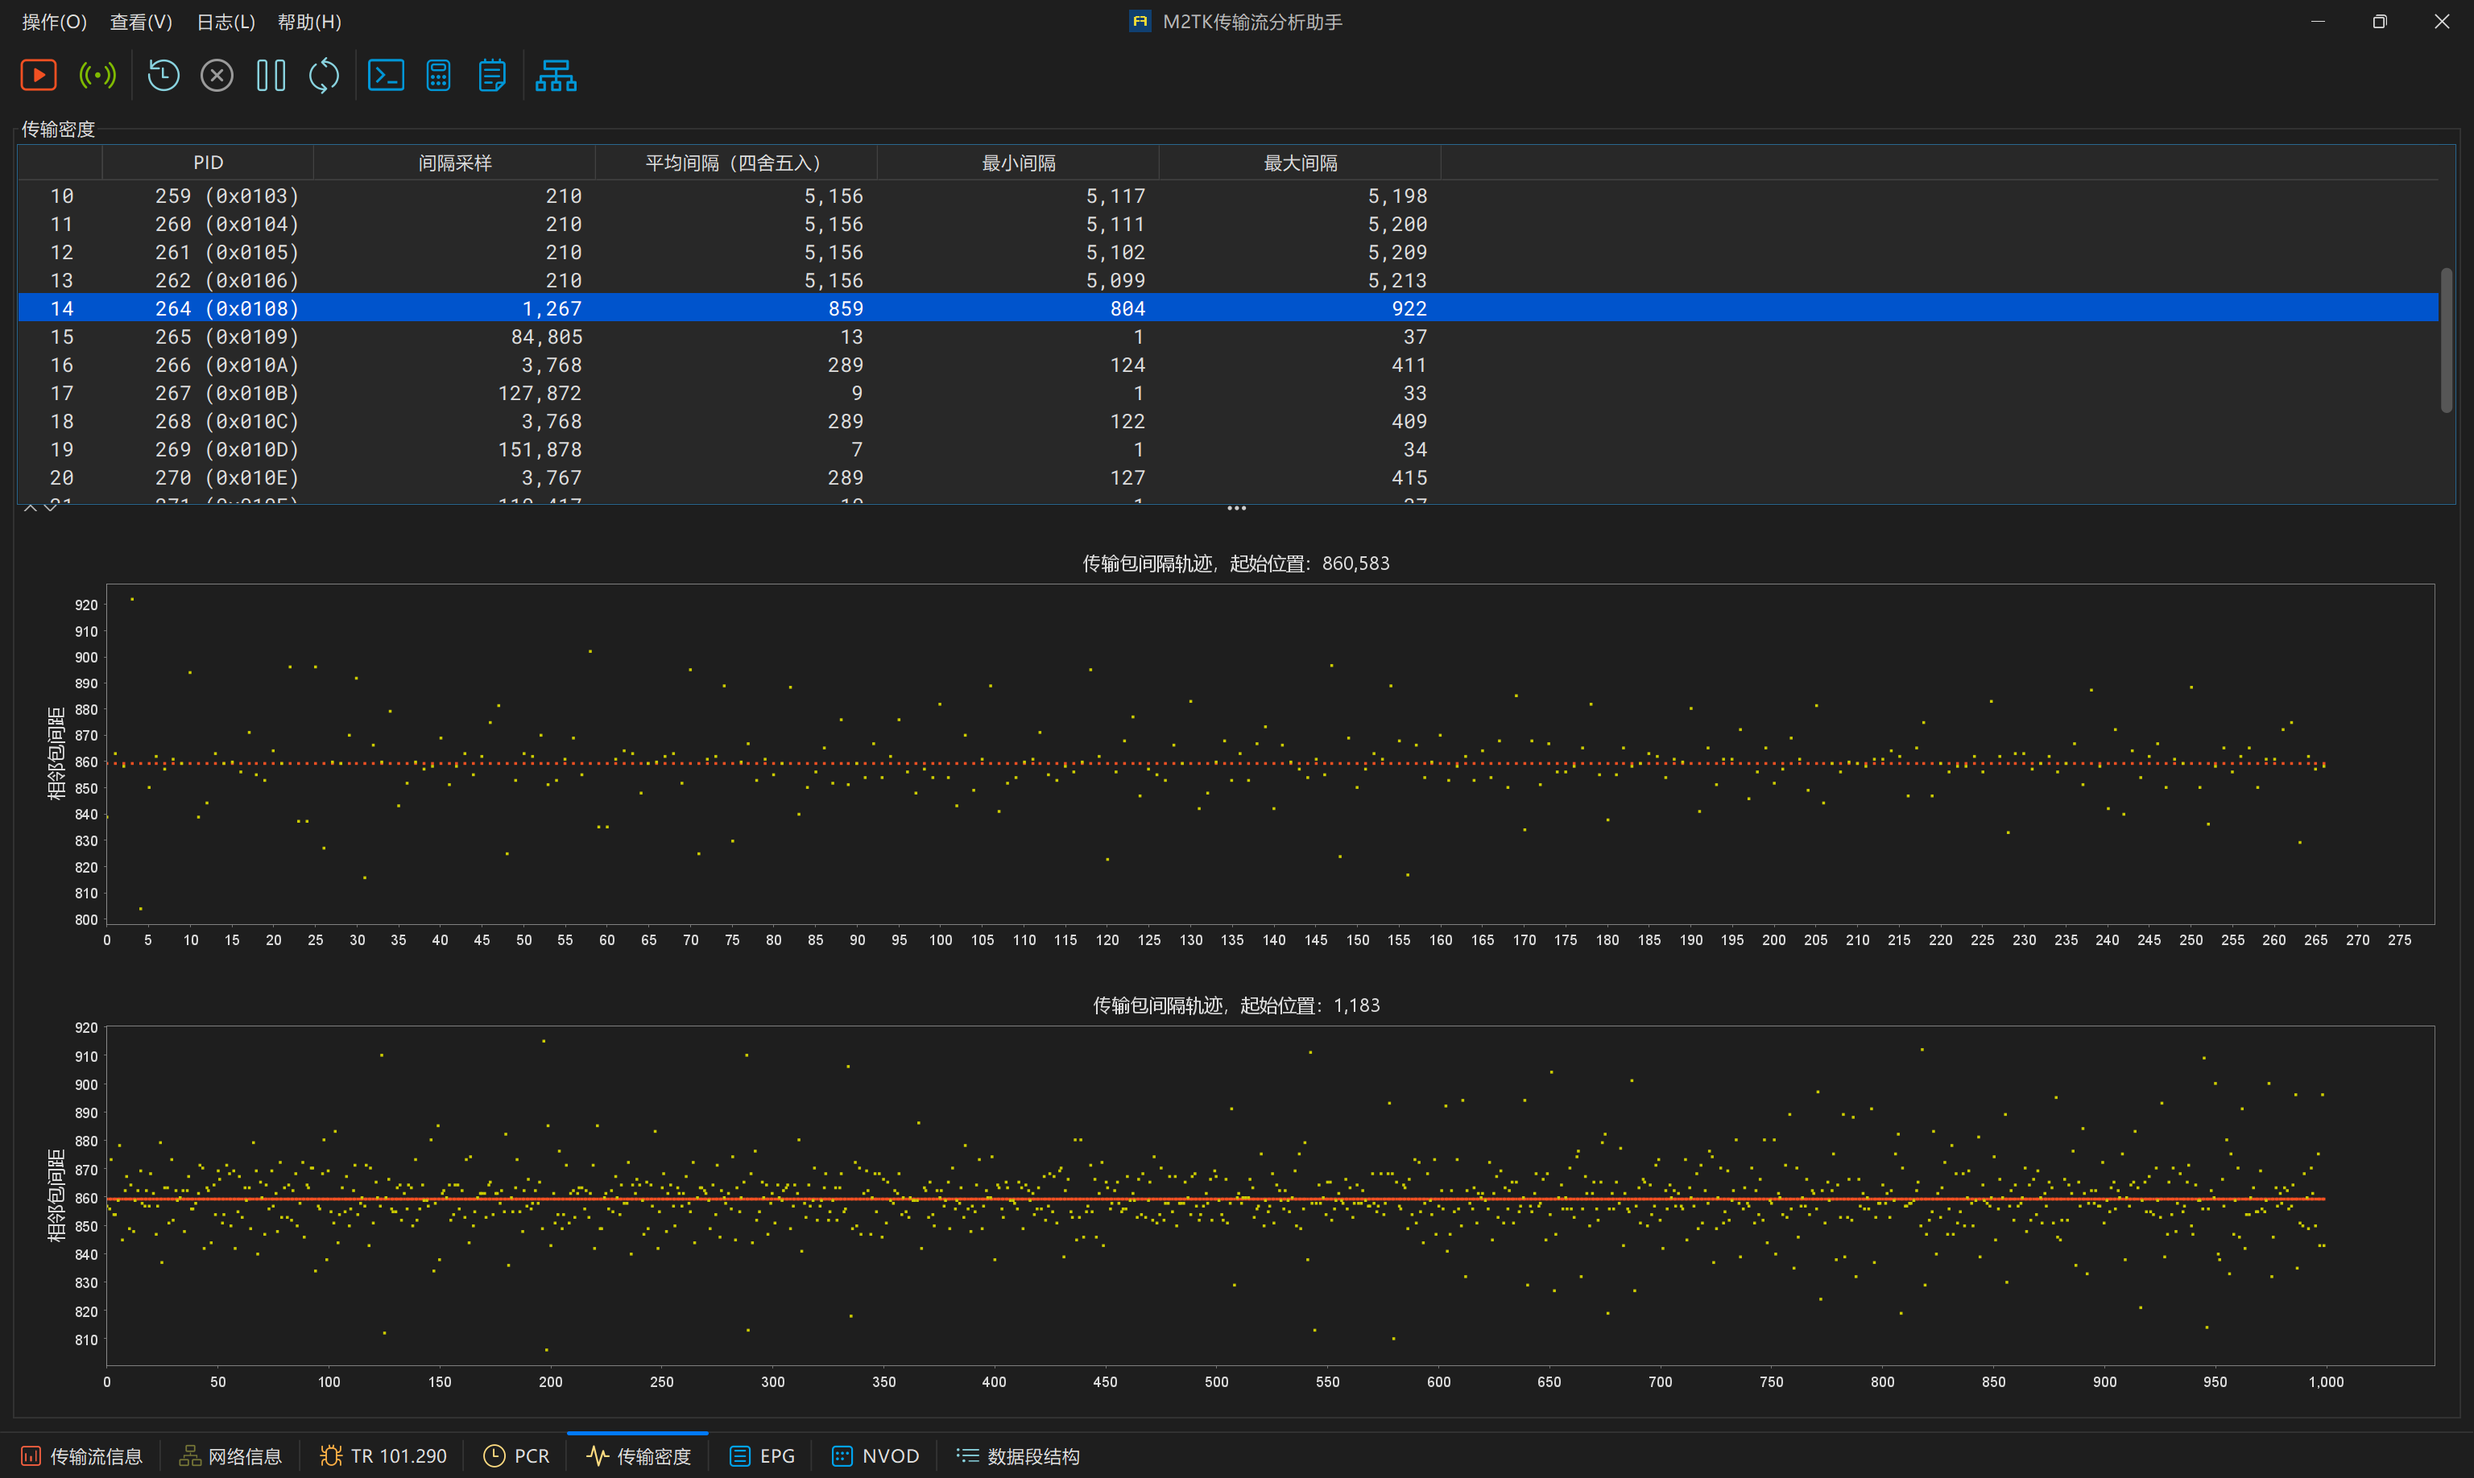
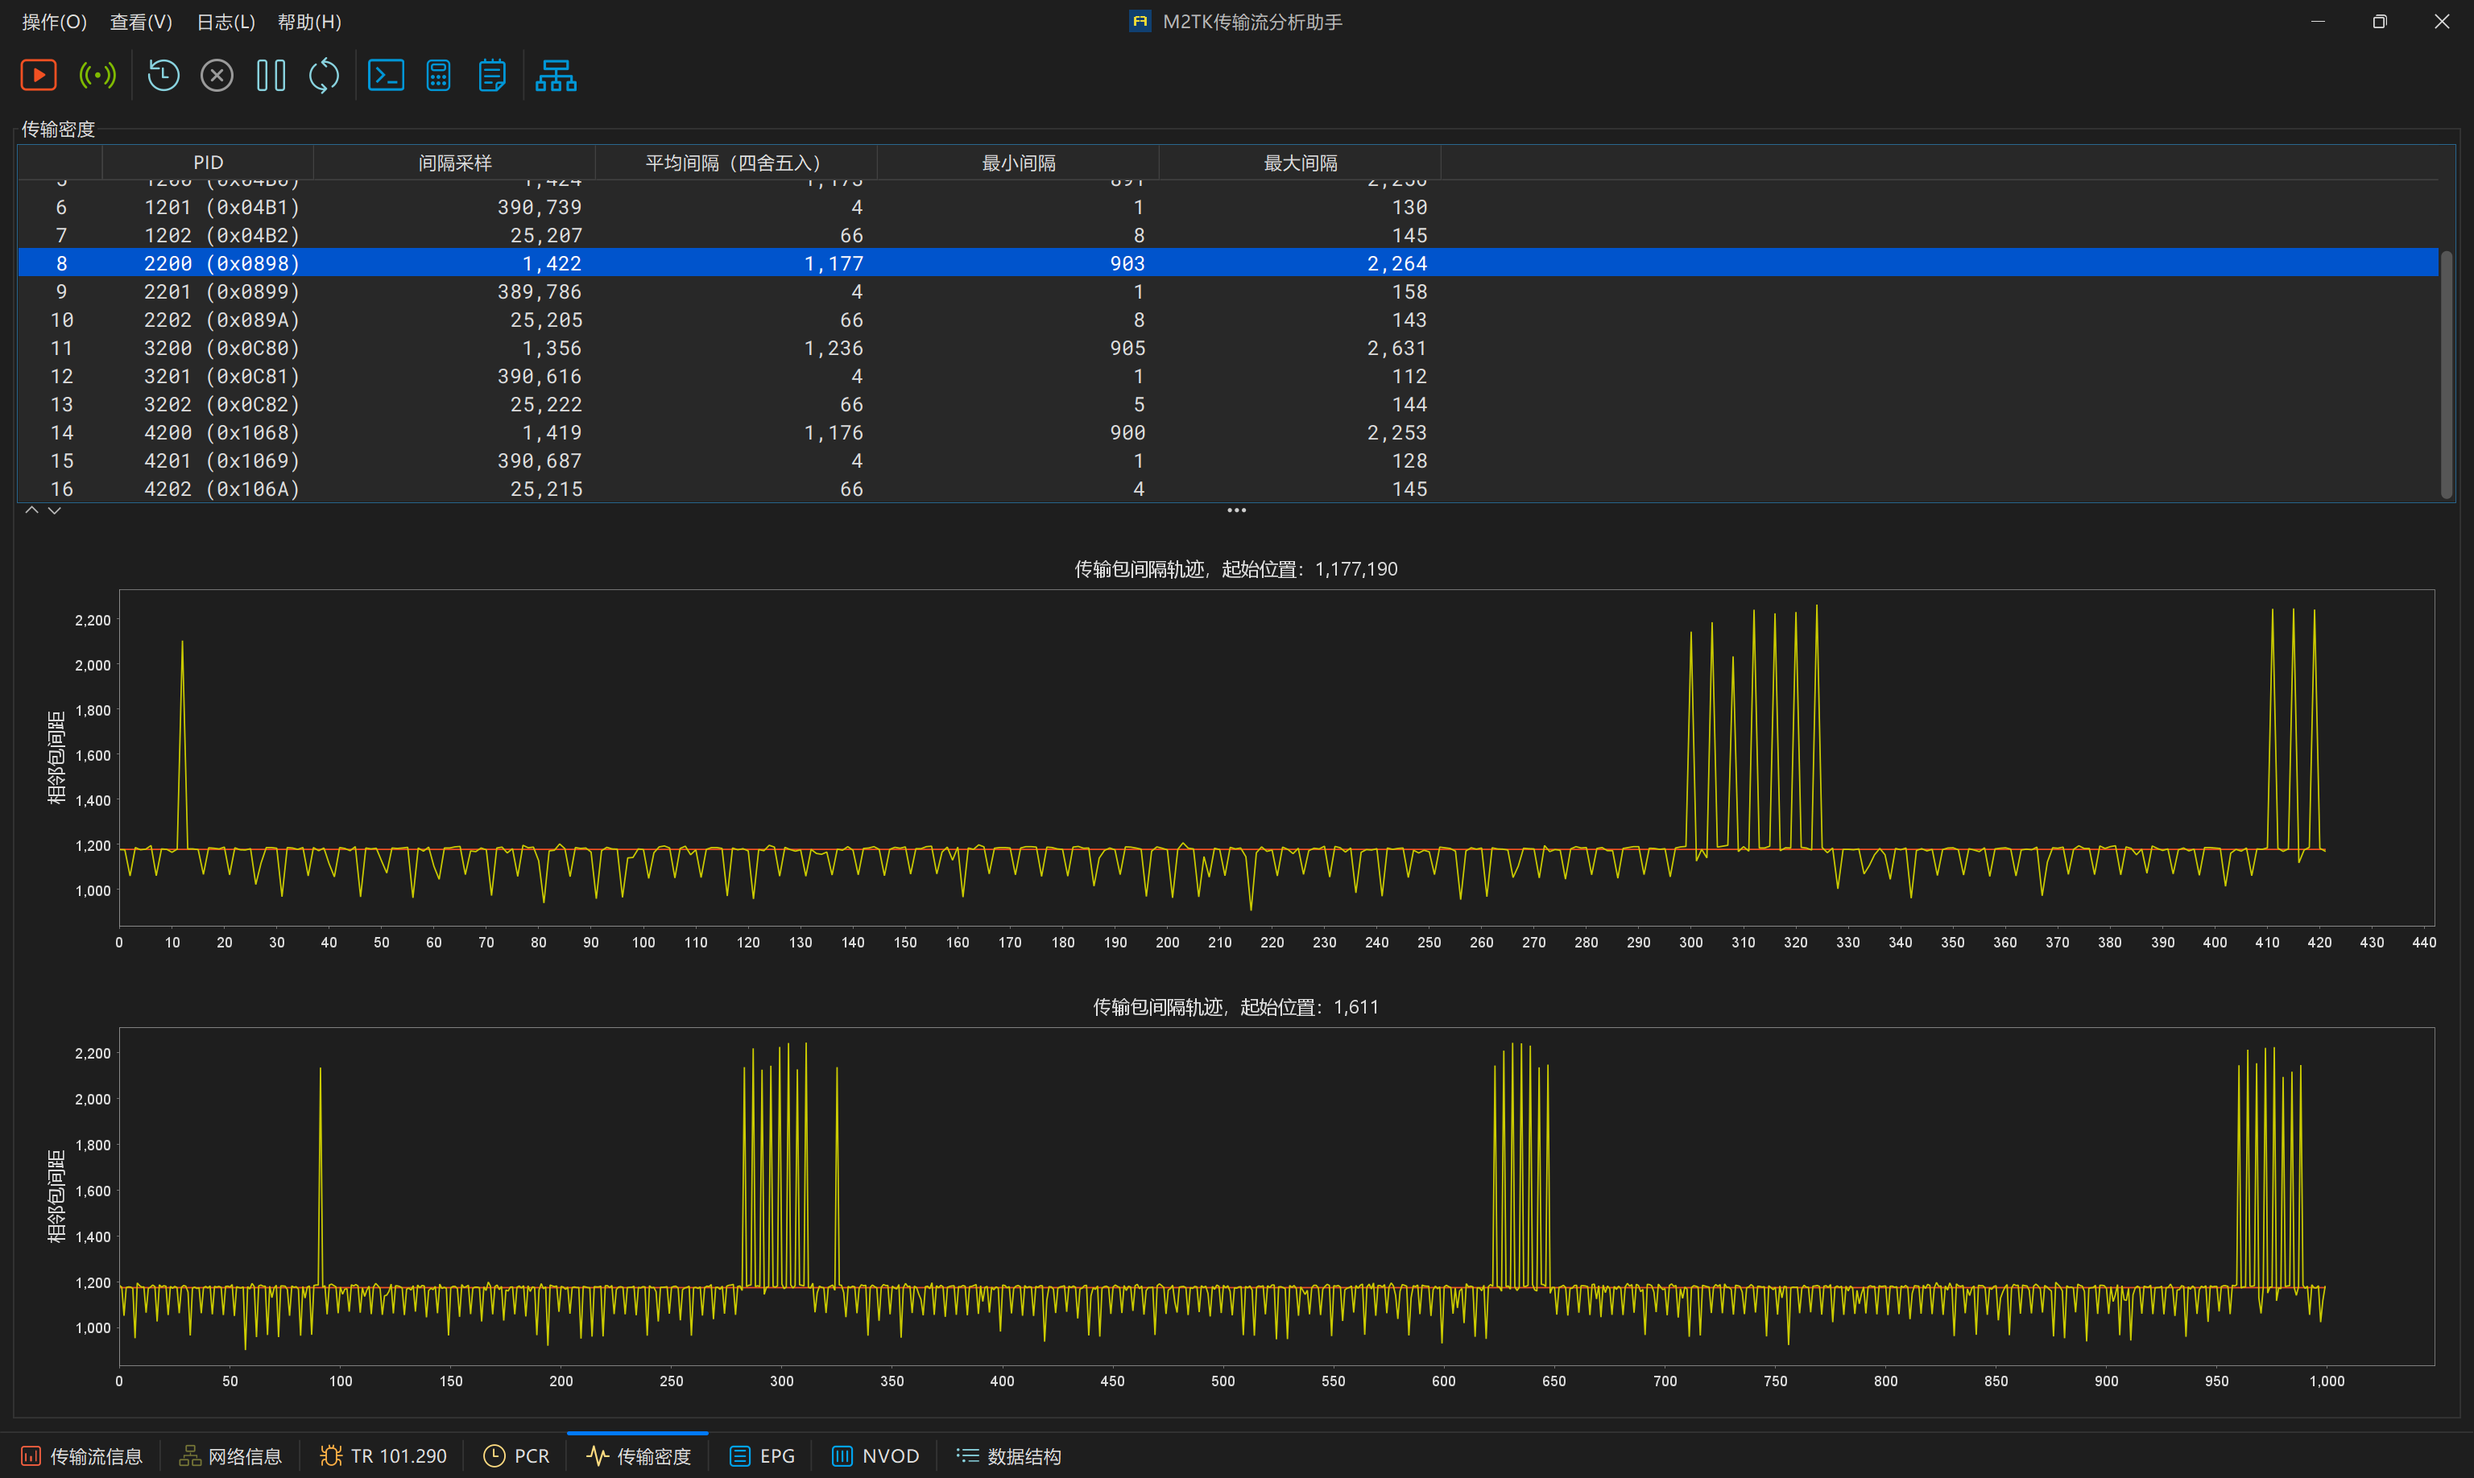
[improve] 将密度改为折线图样式。

diff --git a/modules/assistant-app/src/main/java/m2tk/assistant/app/ui/component/DensityChartPanel.java b/modules/assistant-app/src/main/java/m2tk/assistant/app/ui/component/DensityChartPanel.java
@@ -22,7 +22,7 @@ import org.jfree.chart.JFreeChart;
 import org.jfree.chart.axis.NumberAxis;
 import org.jfree.chart.plot.PlotOrientation;
 import org.jfree.chart.plot.XYPlot;
-import org.jfree.chart.renderer.xy.XYDotRenderer;
+import org.jfree.chart.renderer.xy.SamplingXYLineRenderer;
 import org.jfree.data.xy.XYSeries;
 import org.jfree.data.xy.XYSeriesCollection;
 
@@ -56,22 +56,19 @@ public class DensityChartPanel extends JPanel
         XYSeries series0 = new XYSeries("传输密度");
         XYSeries series1 = new XYSeries("平均密度");
         int[] densities = bulk.getDensities();
-        for (int i = 0; i < bulk.getBulkSize(); i++)
-        {
+        for (int i = 0; i < densities.length; i++)
             series0.add(i, densities[i]);
-            series1.add(i, bulk.getAvgDensity());
-        }
+        series1.add(0, bulk.getAvgDensity());
+        series1.add(densities.length + 5, bulk.getAvgDensity());
 
         XYSeriesCollection collection = new XYSeriesCollection();
         collection.addSeries(series0);
         collection.addSeries(series1);
 
-        XYDotRenderer renderer = new XYDotRenderer();
+        SamplingXYLineRenderer renderer = new SamplingXYLineRenderer();
         renderer.setSeriesPaint(0, Color.decode("#CCCC00"));
         renderer.setSeriesPaint(1, Color.decode("#F25022"));
         renderer.setDefaultItemLabelPaint(foreground);
-        renderer.setDotWidth(2);
-        renderer.setDotHeight(2);
 
         NumberAxis xAxis = new NumberAxis();
         xAxis.setAutoRange(true);
